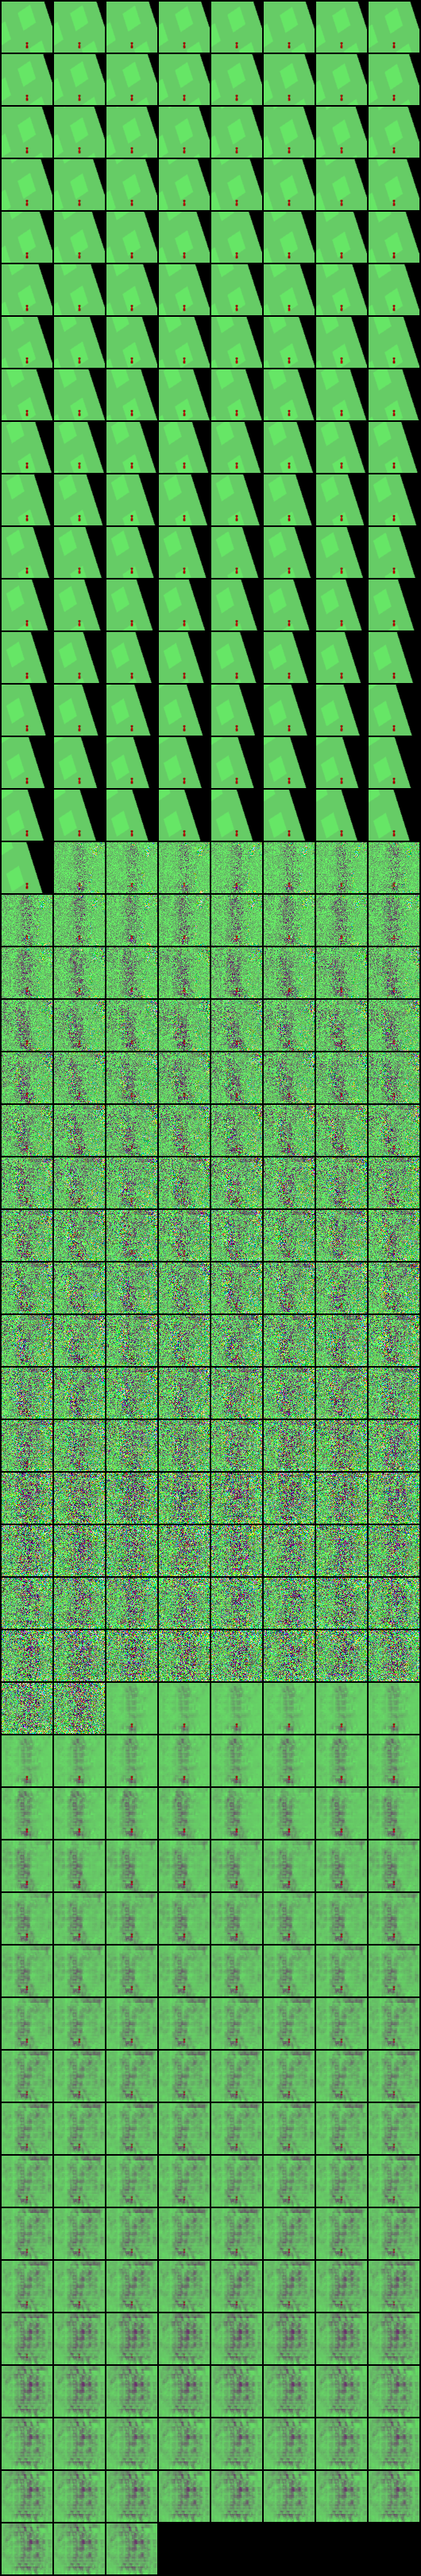
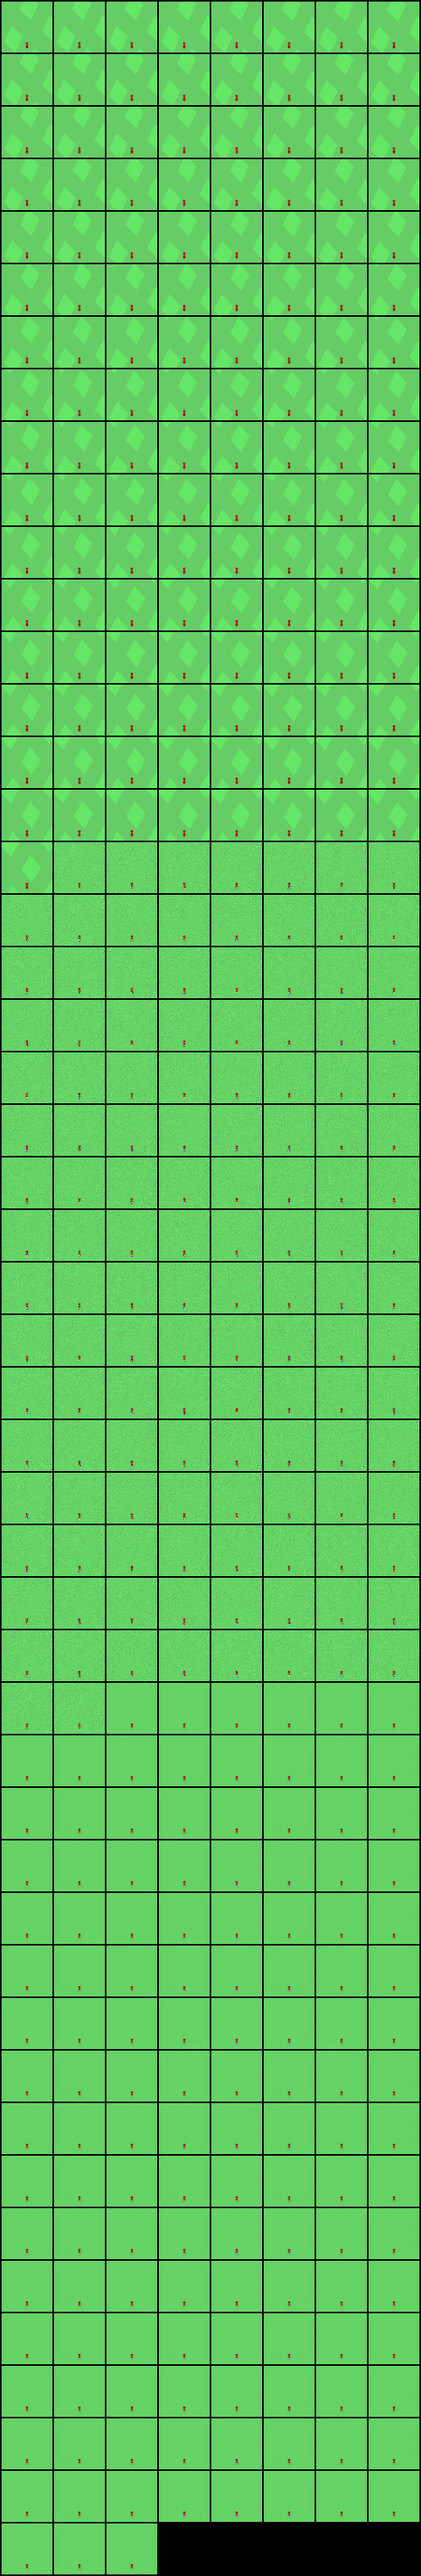
pushing the first 6 epochs of training

diff --git a/train_joint.py b/train_joint.py
@@ -1,8 +1,8 @@
 """ Joint training of  """
 import argparse
 from functools import partial
-from os.path import join, exists, unlink
-from os import mkdir
+from os.path import join, exists
+from os import mkdir, unlink
 import torch
 import torch.nn.functional as f
 from torch.utils.data import DataLoader
@@ -104,10 +104,11 @@ def main(args):
                 if not args.reload_from_pretrain and name =='mdrnn': 
                     # this info is currently saved with the vae and mdrnn on their own pulling from mdrnn as its currently the last.
                     print(' Loading in training state info (eg optimizer state) from last model in iter list:', name)
-                    optimizer.load_state_dict(state["optimizer"])
-                    scheduler.load_state_dict(state['scheduler'])
-                    earlystopping.load_state_dict(state['earlystopping'])
+                    #optimizer.load_state_dict(state["optimizer"])
+                    #scheduler.load_state_dict(state['scheduler'])
+                    #earlystopping.load_state_dict(state['earlystopping'])
                     vae_n_mdrnn_cur_best = state['precision']
+
             else: 
                 print('trying to load file at:', load_file, "but couldnt find it so starting fresh")
 
@@ -136,7 +137,10 @@ def main(args):
                             filenames_dict[model_name+'_best'])
 
         # unlinking the logger too
-        os.unlink(logger_filename)
+        unlink(logger_filename)
+    
+    # NOTE: I am now starting with a lower learning rate. 
+    optimizer = torch.optim.Adam(list(vae.parameters())+list(mdrnn.parameters()), lr=1e-4)
 
     # dont need as saving the observations after their transforms in the rollout itself. 
     #transform = transforms.Lambda( lambda x: np.transpose(x, (0, 3, 1, 2)) / 255)

diff --git a/controller_model.py b/controller_model.py
@@ -269,12 +269,16 @@ class Models:
 
     def update_cross_entropy_method(self, first_actions, rewards):
         # for carracing we have 3 independent gaussians
-        smoothing = 0.5
+        smoothing = 0.2
         vals, inds = torch.topk(rewards, self.k_top )
         elite_actions = first_actions[inds]
-        self.cem_mus = smoothing*self.cem_mus + (1-smoothing)*(elite_actions.sum(dim=0)/self.k_top) 
-        self.cem_sigmas = smoothing*self.cem_sigmas+(1-smoothing)*(torch.sum( (elite_actions - self.cem_mus)**2, dim=0)/self.k_top )
-        self.cem_sigmas = torch.clamp(self.cem_sigmas, min=0.2)
+
+        new_mu = elite_actions.sum(dim=0)/self.k_top
+        new_sigma = torch.sqrt(torch.sum( (elite_actions - self.cem_mus)**2, dim=0)/self.k_top)
+        self.cem_mus = smoothing*new_mu + (1-smoothing)*(self.cem_mus) 
+        self.cem_sigmas = smoothing*new_sigma+(1-smoothing)*(self.cem_sigmas )
+        
+        self.cem_sigmas = torch.clamp(self.cem_sigmas, min=0.1)
         #print('updated cems',self.cem_mus, self.cem_sigmas )
 
     def constrain_actions(self, out):

diff --git a/joint_utils.py b/joint_utils.py
@@ -101,8 +101,6 @@ def generate_rollouts_using_planner(cem_params, horizon, planner_n_particles, se
 
     res = []
     for ind, worker_output in enumerate(all_worker_outputs): 
-        print('length of worker output', len(worker_output))
-        print('what is being appended to res? ', len(worker_output[0]))
         res.append(worker_output[0])
         if ind==0:
             cem_mus = worker_output[1]  
@@ -115,9 +113,9 @@ def generate_rollouts_using_planner(cem_params, horizon, planner_n_particles, se
     cem_sigmas /= num_workers
 
     # cem_smoothing: 
-    alpha_smoothing=0.5
-    cem_mus = cem_mus*alpha_smoothing + (1-alpha_smoothing)*cem_mus
-    cem_sigmas = cem_sigmas*alpha_smoothing + (1-alpha_smoothing)*cem_sigmas
+    alpha_smoothing=0.2
+    cem_mus = cem_mus*alpha_smoothing + (1-alpha_smoothing)*cem_params[0]
+    cem_sigmas = cem_sigmas*alpha_smoothing + (1-alpha_smoothing)*cem_params[1]
 
     # res is a list with tuples for each worker containing: reward_list, data_dict_list, t_list
     print('===== Done with pool of workers')
